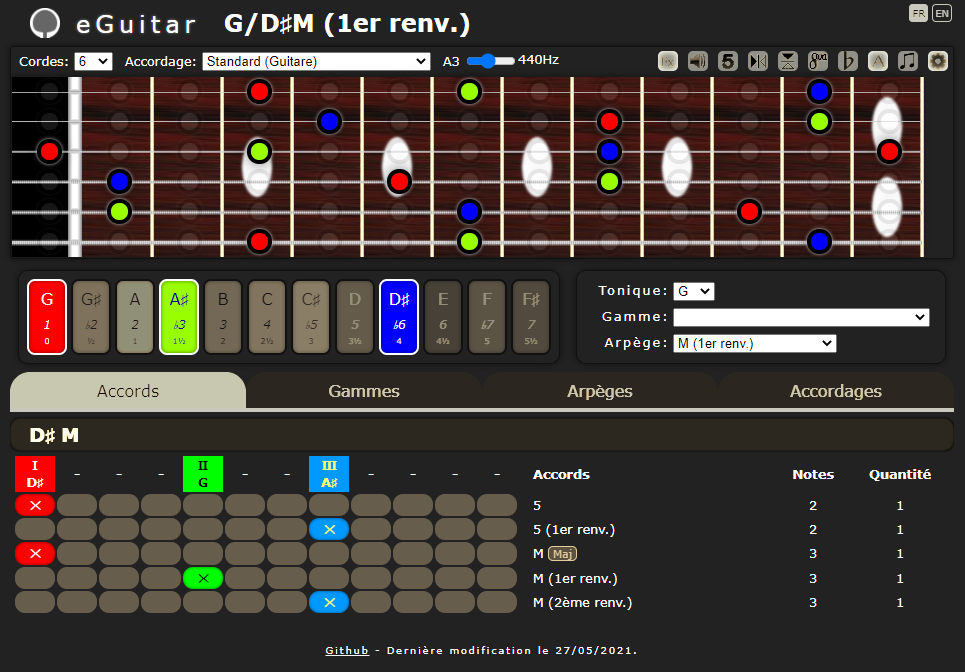
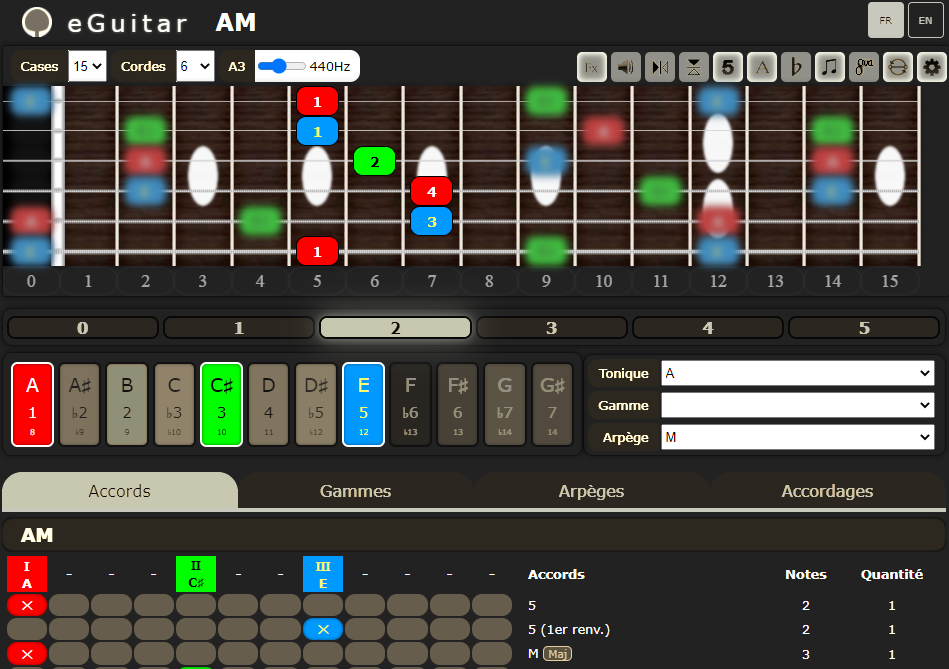
...

diff --git a/README.md b/README.md
@@ -5,7 +5,7 @@ eGuitar permet de visualiser l'emplacement des notes sur le manche.
 Après sélection d'une tonique, il est ainsi possible de voir facilement:
 - une gamme
 - un arpège
-- et maintenant des accords !!!
+- et maintenant des accords avec les doigtés!!!
 
 Vous pouvez aussi choisir vos propres notes en cliquant sur le "Manche" ou mon "IntervalBox".
 
